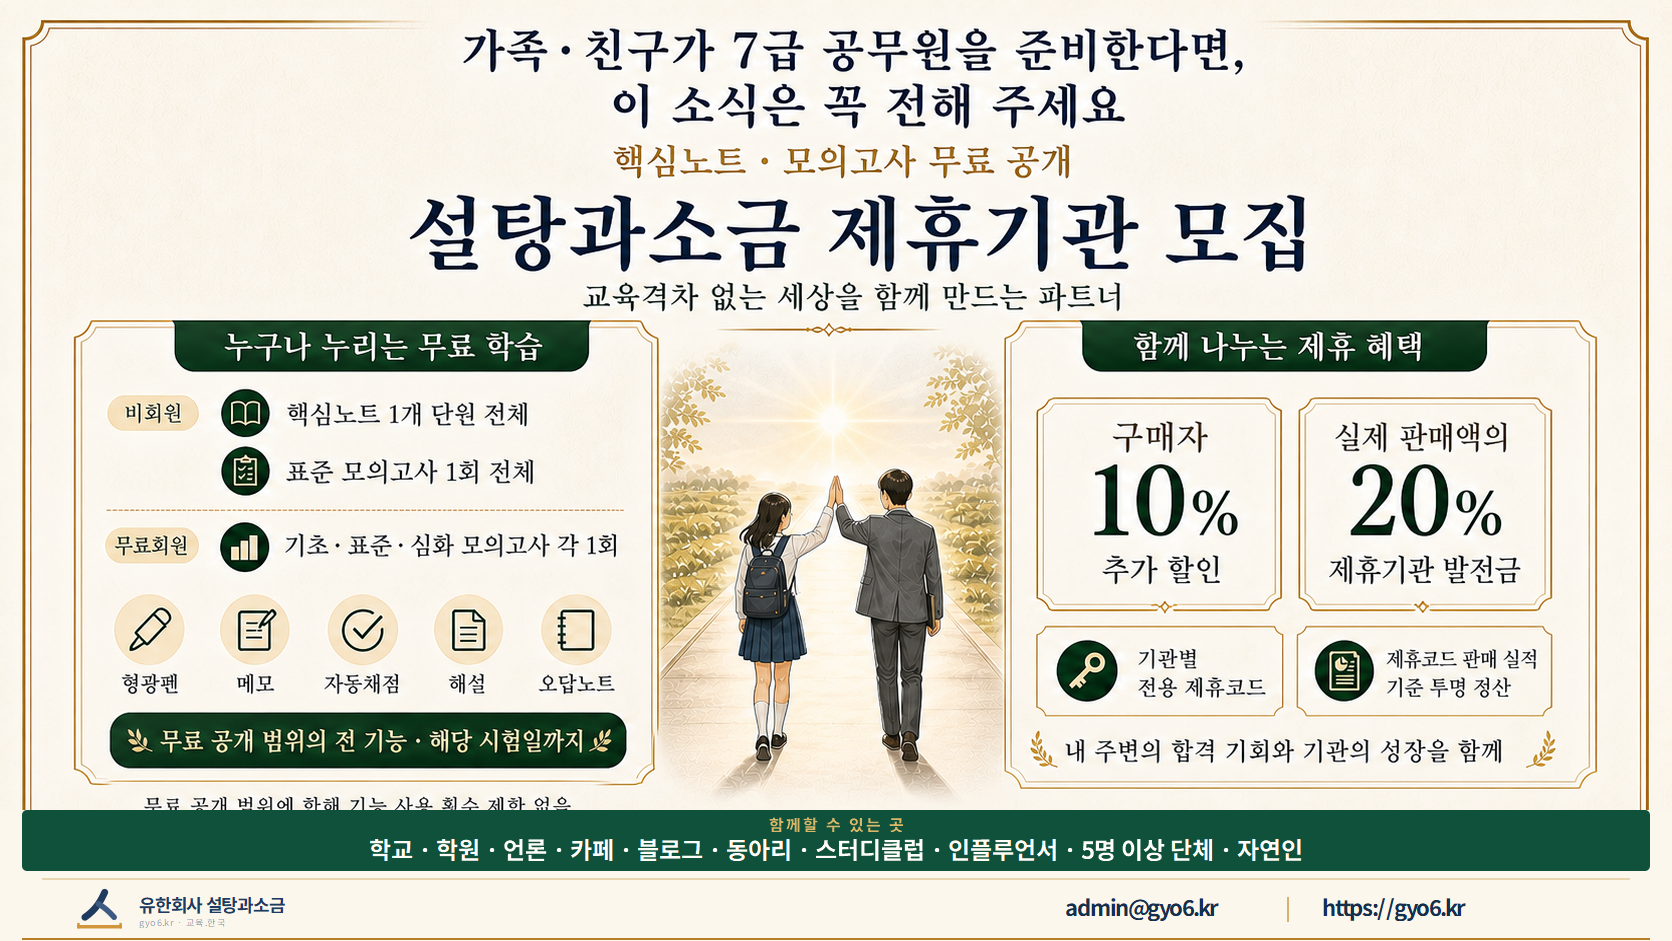
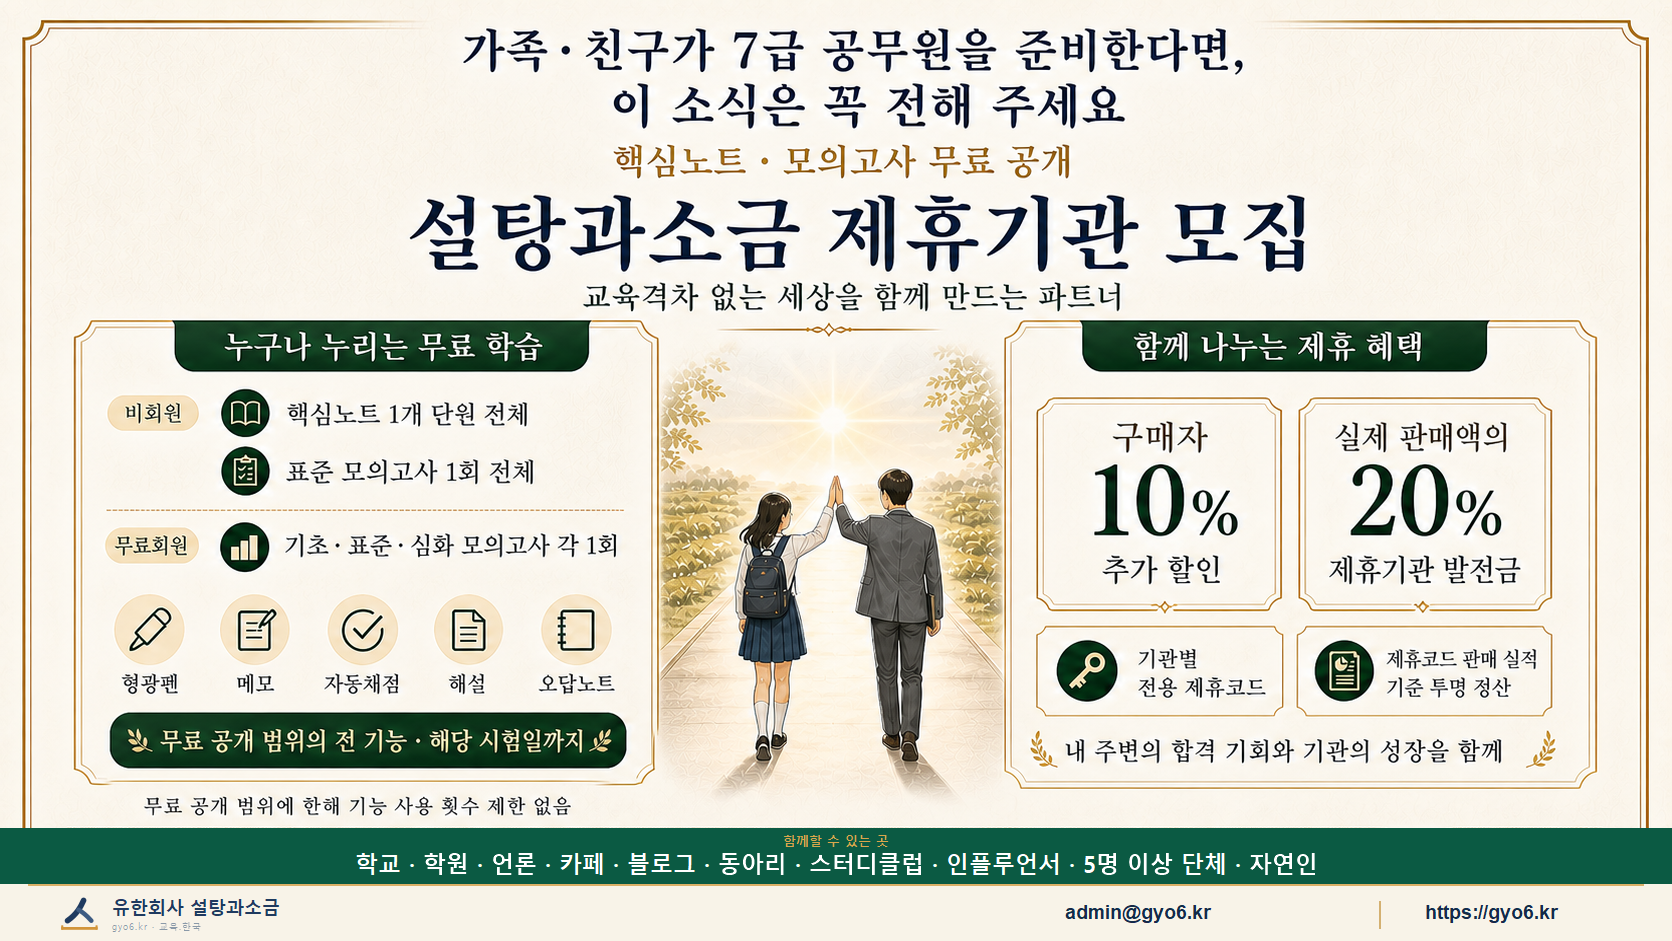
Fix partnership campaign presentation

Changed region(s): [[0.0, 0.8629, 1.0, 1.0]]

diff --git a/assets/portal-boards.js b/assets/portal-boards.js
@@ -3,6 +3,18 @@ const BOARD_API_ORIGIN = new URL(BOARD_API).origin;
 const ATTACHMENT_ACCEPT = ".png,.jpg,.jpeg,.webp,.gif,.pdf,.hwp,.hwpx,.doc,.docx,.xls,.xlsx,.ppt,.pptx";
 const ATTACHMENT_MAX_FILES = 5;
 const ATTACHMENT_MAX_BYTES = 15 * 1024 * 1024;
+const PARTNERSHIP_CAMPAIGN_POST_ID = "1";
+const PARTNERSHIP_CAMPAIGN_BODY = `[[campaign:partnership|교육의 공정한 출발선을 함께 넓히는 설탕과소금 제휴기관 모집]]
+
+교육의 공정한 출발선을 함께 넓힐 제휴기관과 파트너를 모집합니다.
+
+- 참여 대상: 학교, 학원, 언론사, 카페, 블로그, 동아리·스터디클럽, 인플루언서, 5명 이상 단체 및 자연인
+- 무료 학습: 비회원은 핵심노트 1개 단원과 표준 모의고사 1회, 무료회원은 기초·표준·심화 모의고사 각 1회를 이용할 수 있습니다.
+- 학습 기능: 무료 공개 범위에서 형광펜·메모·자동채점·해설·오답노트를 해당 시험일까지 횟수 제한 없이 이용할 수 있습니다.
+- 구매자 혜택: 제휴코드 입력 시 출시기념 할인가에서 10%를 추가 할인합니다.
+- 제휴기관 혜택: 제휴코드 판매 실적을 기준으로 실제 판매액의 20%를 발전금으로 나눕니다.
+- 운영 원칙: 제휴코드별 실적을 확인하고 약정된 기준에 따라 투명하게 정산합니다.
+- 신청 방법: 제휴기관 모집 안내를 확인한 뒤 협업문의로 기관·단체명과 담당 연락처를 남겨 주세요.`;
 const ROOM_LABELS = {
   promotion: "설탕과소금 소식",
   collaboration: "협업문의",
@@ -88,13 +100,24 @@ async function loadPosts() {
     const data = await response.json().catch(() => ({}));
     if (!response.ok || data.error) throw new Error(data.error || `HTTP ${response.status}`);
 
-    const posts = Array.isArray(data.posts) ? data.posts : [];
+    const posts = Array.isArray(data.posts) ? data.posts.map(normalizeCampaignPost) : [];
     statusEl.textContent = posts.length ? `${posts.length}개의 게시글을 표시합니다.` : "아직 표시할 게시글이 없습니다.";
     listEl.innerHTML = posts.map(renderPost).join("");
     await hydratePrivateImages(token);
   } catch (error) {
     statusEl.textContent = error.message || "게시글을 불러오지 못했습니다.";
   }
+}
+
+function normalizeCampaignPost(post) {
+  if (String(post?.id || "") !== PARTNERSHIP_CAMPAIGN_POST_ID || post?.room !== "promotion") return post;
+  return {
+    ...post,
+    title: "교육의 공정한 출발선을 함께 넓힐 제휴기관을 모집합니다",
+    body: PARTNERSHIP_CAMPAIGN_BODY,
+    attachments: [],
+    author: { ...(post.author || {}), anonymousName: "유한회사 설탕과소금" }
+  };
 }
 
 async function submitPost(event) {
@@ -403,6 +426,11 @@ function renderAttachmentManagement(items) {
 function renderBoardBody(value, room) {
   const lines = String(value ?? "").split("\n");
   const content = lines.map((line) => {
+    const campaign = room === "promotion" ? line.trim().match(/^\[\[campaign:partnership\|([^\]]{1,160})\]\]$/i) : null;
+    if (campaign) {
+      const alt = escapeHtml(campaign[1].trim());
+      return `<figure class="board-post-visual board-campaign-visual"><picture><source media="(max-width: 620px)" srcset="assets/partnership-fair-start-mobile.webp?v=20260818-partnership-v2"><img src="assets/partnership-fair-start-desktop.webp?v=20260818-partnership-v2" alt="${alt}" loading="lazy" decoding="async"></picture><figcaption>${alt}</figcaption></figure>`;
+    }
     const image = room === "promotion" ? line.trim().match(/^\[\[image:(assets\/news\/[a-z0-9._/-]+\.(?:png|jpe?g|webp))\|([^\]]{1,160})\]\]$/i) : null;
     if (image) {
       const src = escapeHtml(image[1]);

diff --git a/boards.html b/boards.html
@@ -5,7 +5,7 @@
   <title>소식·문의 | 설탕과소금</title>
   <meta name="description" content="설탕과소금의 소식, 협업문의, 질의응답을 한곳에서 확인하고 남길 수 있습니다.">
   <link rel="canonical" href="https://gyo6.kr/boards.html"><link rel="icon" href="brand/logo/favicon.svg" type="image/svg+xml">
-  <style>@import url('https://fonts.googleapis.com/css2?family=IBM+Plex+Sans+KR:wght@400;500;600;700&family=Noto+Serif+KR:wght@500;600;700&display=swap');</style><link rel="stylesheet" href="assets/site.css"><link rel="stylesheet" href="assets/board-enhancements.css"><link rel="stylesheet" href="assets/portal-auth.css">
+  <style>@import url('https://fonts.googleapis.com/css2?family=IBM+Plex+Sans+KR:wght@400;500;600;700&family=Noto+Serif+KR:wght@500;600;700&display=swap');</style><link rel="stylesheet" href="assets/site.css?v=20260818-partnership-v2"><link rel="stylesheet" href="assets/board-enhancements.css?v=20260818-partnership-v2"><link rel="stylesheet" href="assets/portal-auth.css">
 </head>
 <body>
   <a class="skip" href="#main">본문 바로가기</a>
@@ -20,6 +20,6 @@
     </div></section>
   </main>
   <footer class="lean-footer"><div class="wrap lean-footer-grid"><div><strong>설탕과소금</strong><div>소식 · 협업문의 · 질의응답</div></div><div class="footer-links"><a href="index.html">홈</a><a href="host.html?v=20260802-navfix1">교육현장 30년</a><a href="#write">문의 작성</a></div></div></footer>
-  <div id="portal-auth-mount"></div><script type="module" src="assets/portal-auth.js"></script><script type="module" src="assets/portal-boards.js"></script>
+  <div id="portal-auth-mount"></div><script type="module" src="assets/portal-auth.js"></script><script type="module" src="assets/portal-boards.js?v=20260818-partnership-v2"></script>
 </body>
 </html>

diff --git a/index.html b/index.html
@@ -13,7 +13,7 @@
   <meta property="og:image" content="https://gyo6.kr/assets/map-home-education-opportunity.jpg">
   <link rel="icon" href="brand/logo/favicon.svg" type="image/svg+xml">
   <style>@import url('https://fonts.googleapis.com/css2?family=Gowun+Batang:wght@400;700&family=IBM+Plex+Sans+KR:wght@400;500;600;700&family=Jua&display=swap');</style>
-  <link rel="stylesheet" href="assets/site.css?v=20260817-free-mock"><link rel="stylesheet" href="assets/board-enhancements.css?v=20260817-free-mock">
+  <link rel="stylesheet" href="assets/site.css?v=20260818-partnership-v2"><link rel="stylesheet" href="assets/board-enhancements.css?v=20260818-partnership-v2">
 </head>
 <body class="home-portal">
   <a class="skip" href="#main">본문 바로가기</a>
@@ -125,6 +125,6 @@
   </main>
 
   <footer class="lean-footer"><div class="wrap lean-footer-grid"><div><strong>유한회사 설탕과소금</strong><div>교육격차 없는 대한민국을 향합니다.</div><div class="footer-business-info">사업자등록번호 767-81-03735 · <a href="mailto:admin@gyo6.kr">admin@gyo6.kr</a></div></div><div class="footer-links"><a href="vocational.html?v=20260802-navfix1">특성화고 교육지원센터</a><a href="exams.html?v=20260802-navfix1">공직시험 연구소</a><a href="apps.html?v=20260802-navfix1">디지털 프로젝트 스튜디오</a><a href="host.html?v=20260802-navfix1">교육현장 30년</a><a href="boards.html?v=20260802-navfix1">소식·문의</a></div></div></footer>
-  <script type="module" src="assets/portal-popup.js"></script>
+  <script type="module" src="assets/portal-popup.js?v=20260818-partnership-v2"></script>
 </body>
 </html>

diff --git a/assets/portal-popup.js b/assets/portal-popup.js
@@ -1,4 +1,4 @@
-const CAMPAIGN_ID = "fair-start-partnership-202608";
+const CAMPAIGN_ID = "fair-start-partnership-202608-v2";
 const CAMPAIGN_LINK = "partners.html?from=popup";
 
 showPartnershipPopup();
@@ -16,14 +16,10 @@ function showPartnershipPopup() {
       <button class="board-home-popup-close" type="button" aria-label="팝업 닫기">×</button>
       <a class="partnership-popup-art" href="${CAMPAIGN_LINK}" aria-label="설탕과소금 제휴기관 모집 자세히 보기">
         <picture>
-          <source media="(max-width: 620px)" srcset="assets/partnership-fair-start-mobile.webp">
-          <img src="assets/partnership-fair-start-desktop.webp" width="1672" height="941" alt="공정한 출발선을 함께 넓히는 설탕과소금 제휴기관 모집. 구매자 10퍼센트 추가 할인, 판매액 20퍼센트 제휴기관 발전금">
+          <source media="(max-width: 620px)" srcset="assets/partnership-fair-start-mobile.webp?v=20260818-partnership-v2">
+          <img src="assets/partnership-fair-start-desktop.webp?v=20260818-partnership-v2" width="1672" height="941" alt="공정한 출발선을 함께 넓히는 설탕과소금 제휴기관 모집. 구매자 10퍼센트 추가 할인, 판매액 20퍼센트 제휴기관 발전금">
         </picture>
       </a>
-      <div class="board-home-popup-actions">
-        <a class="btn primary" href="${CAMPAIGN_LINK}">제휴 안내 자세히 보기</a>
-        <button class="btn" type="button" data-popup-close>닫기</button>
-      </div>
     </div>`;
 
   const previousFocus = document.activeElement;

diff --git a/assets/board-enhancements.css b/assets/board-enhancements.css
@@ -166,7 +166,7 @@
   .free-mock-popup-subjects { margin-top: 15px; }
   .free-mock-popup-copy small { font-size: 9px; }
   .free-mock-popup .board-home-popup-actions { grid-column: 1 / -1; }
-  .partnership-popup .board-home-popup-dialog { width: min(430px, 96vw); padding: 6px; }
+  .partnership-popup .board-home-popup-dialog { width: calc(100vw - 20px); max-width: 430px; padding: 6px; }
   .partnership-popup .board-home-popup-actions { flex-direction: row; }
   .partnership-popup .board-home-popup-actions .btn { min-width: 0; width: auto; flex: 1; font-size: 12px; }
 }

diff --git a/assets/site.css b/assets/site.css
@@ -734,6 +734,10 @@ h3 {
   margin: 18px 0 22px;
 }
 
+.board-campaign-visual picture {
+  display: block;
+}
+
 .board-post-visual img {
   display: block;
   width: min(100%, 760px);
